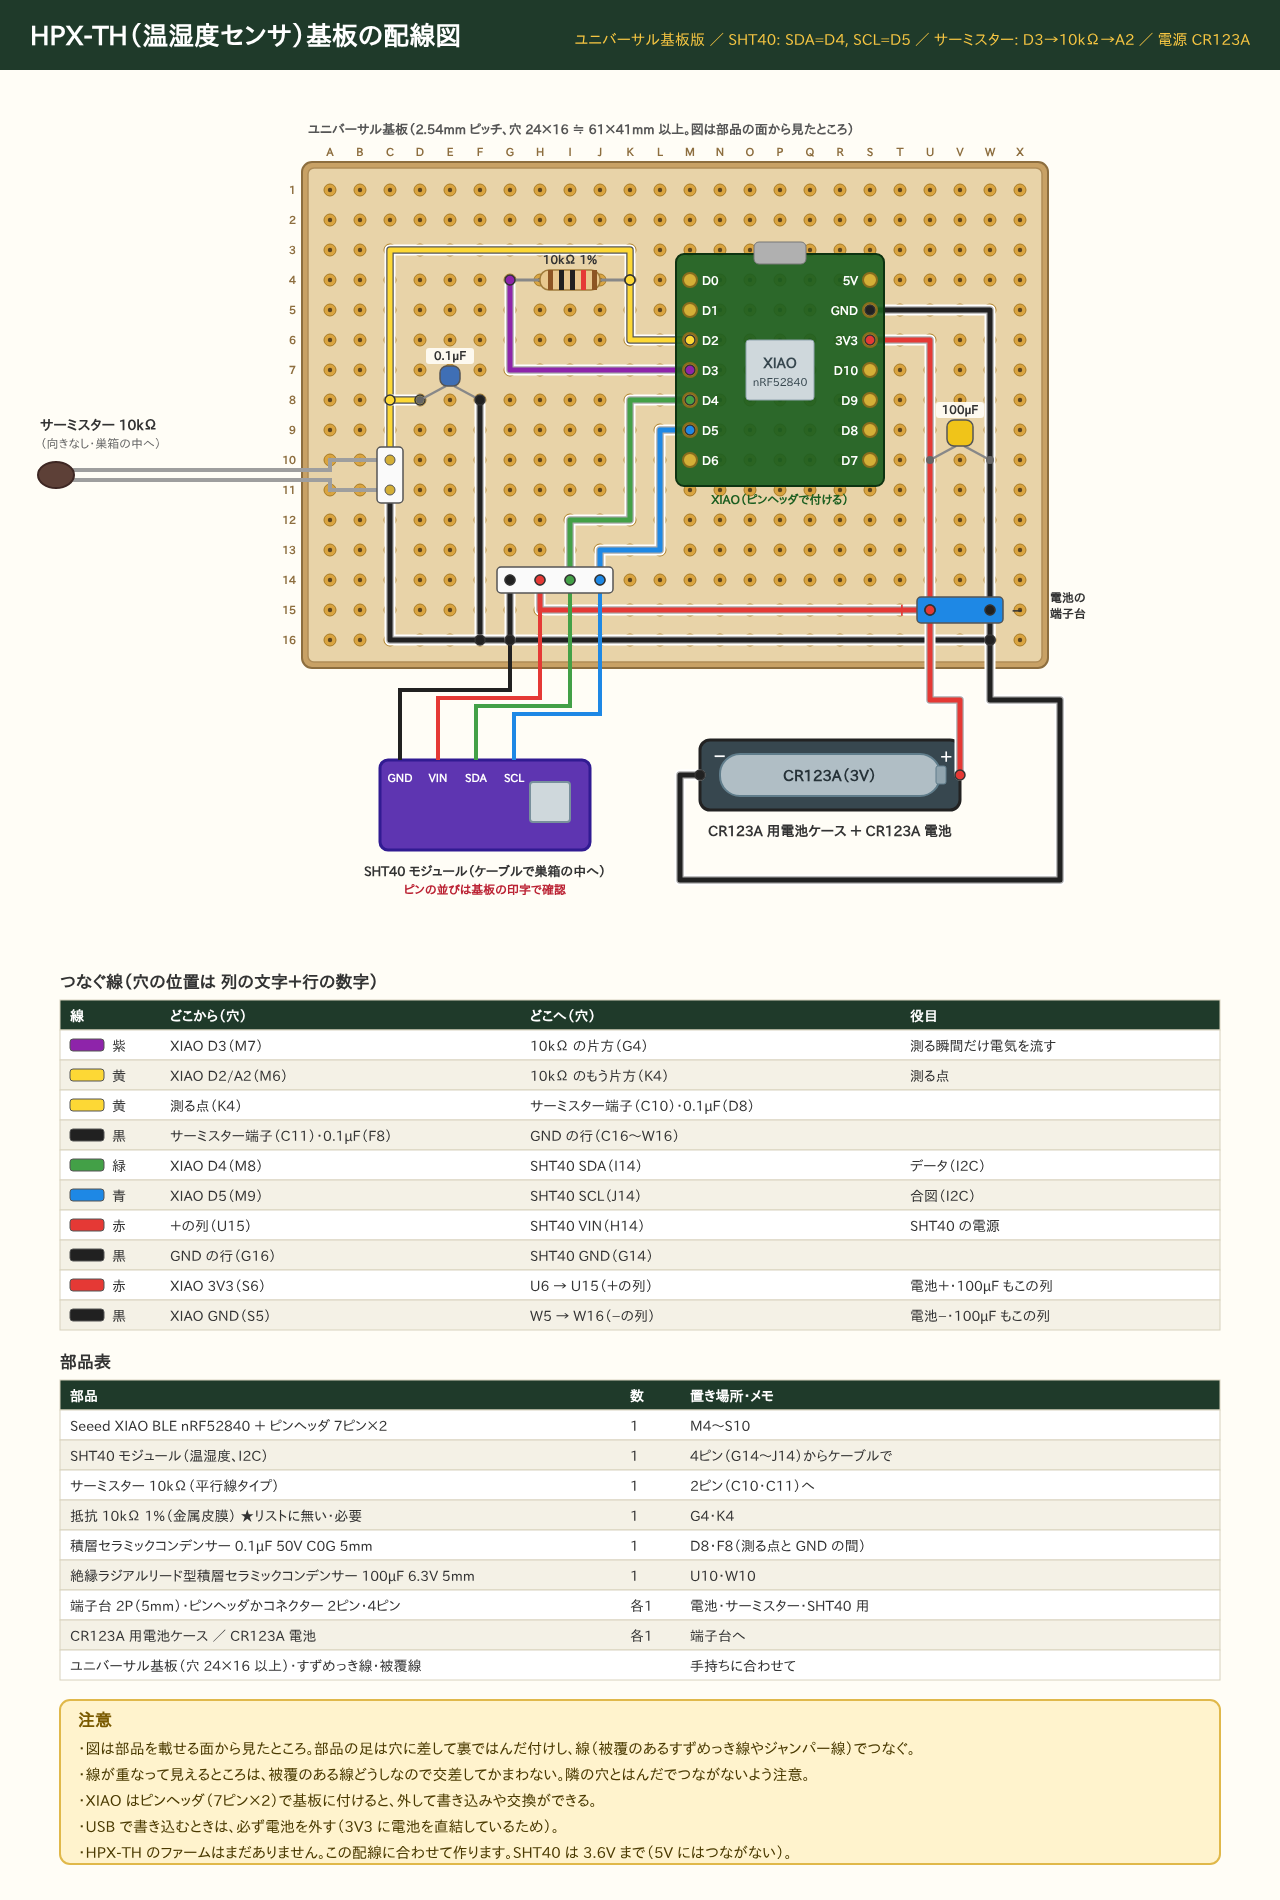
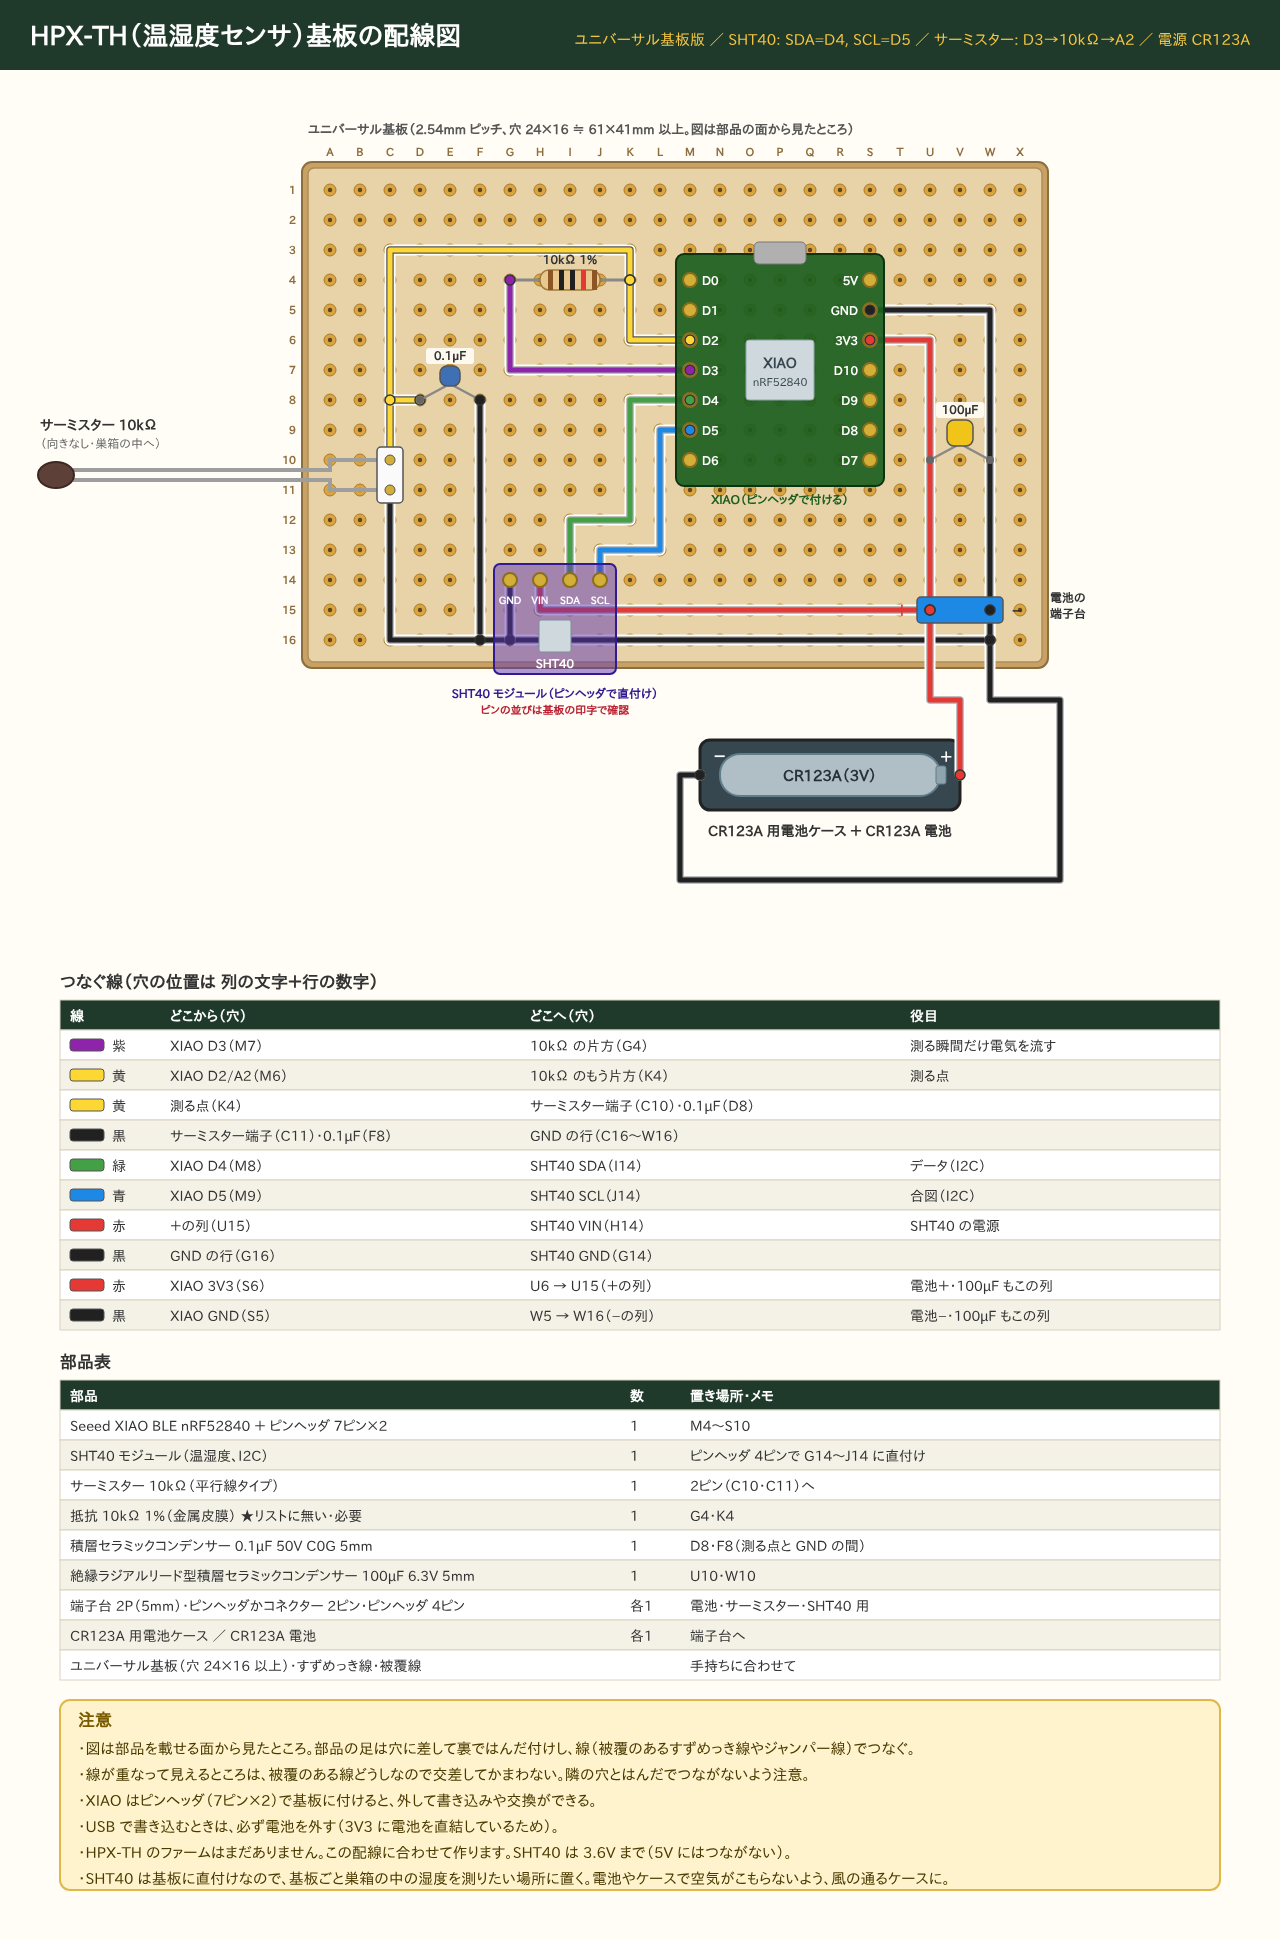
HPX-TH の SHT40 を基板に直付けする図に変更
Claude-Session: https://claude.ai/code/session_01LCC9B49tx6iTQWsNLLe4HY

diff --git a/hardware/wiring/gen_pcb.py b/hardware/wiring/gen_pcb.py
@@ -313,7 +313,7 @@ notes(s, 60, y + 20, COMMON_NOTES + [
 s.save("HPX-W_pcb.svg")
 
 # ================================================================== HPX-TH
-s = S(1280, 1900)
+s = S(1280, 1940)
 title(s, "HPX-TH（温湿度センサ）基板の配線図", "ユニバーサル基板版 ／ SHT40: SDA=D4, SCL=D5 ／ サーミスター: D3→10kΩ→A2 ／ 電源 CR123A")
 board(s)
 p = xiao_pcb(s, 12, 3)
@@ -334,22 +334,21 @@ s.add(f'<path d="M{tx},{ty+30} L{tx-60},{ty+30} L{tx-60},{ty+20} L70,{ty+20}" fi
 s.add(f'<ellipse cx="56" cy="{ty+15}" rx="18" ry="13" fill="#5d4037" stroke="#3e2723" stroke-width="2"/>')
 s.text(40, ty - 30, "サーミスター 10kΩ", 14, weight="bold")
 s.text(40, ty - 12, "（向きなし・巣箱の中へ）", 12, fill="#666")
-# SHT40 用の 4ピン (基板の外へケーブル)
-conn_pcb(s, [(6, 13), (7, 13), (8, 13), (9, 13)], ["", "", "", ""], "")
 wireh(s, [(6, 13), (6, 15)], "black")
 wireh(s, [(7, 13), (7, 14), (20, 14)], "red")
 wireh(s, [p["D4"], (10, 7), (10, 11), (8, 11), (8, 13)], "green")
 wireh(s, [p["D5"], (11, 8), (11, 12), (9, 12), (9, 13)], "blue")
-mx, my = 380, 760
-s.rect(mx, my, 210, 90, "#5e35b1", "#311b92", 8, 3)
-s.rect(mx + 150, my + 22, 40, 40, "#cfd8dc", "#78909c", 3)
-for i, (n, c) in enumerate([("GND", "black"), ("VIN", "red"), ("SDA", "green"), ("SCL", "blue")]):
-    px = mx + 20 + i * 38
-    hx_, hy_ = H(6 + i, 13)
-    s.add(f'<path d="M{hx_},{hy_} L{hx_},{690 + i*8} L{px},{690 + i*8} L{px},{my}" fill="none" stroke="{COL[c]}" stroke-width="4"/>')
-    s.text(px, my + 22, n, 11, "middle", "bold", "#fff")
-s.text(mx + 105, my + 116, "SHT40 モジュール（ケーブルで巣箱の中へ）", 13, "middle", "bold")
-s.text(mx + 105, my + 134, "ピンの並びは基板の印字で確認", 12, "middle", fill="#b23", weight="bold")
+# SHT40 モジュールをピンヘッダで基板に直付け (G14〜J14)。本体は下側に張り出す
+x1, y1 = H(6, 13); x2, _ = H(9, 13)
+s.top.append(f'<rect x="{x1-16}" y="{y1-16}" width="{x2-x1+32}" height="110" rx="6" fill="#5e35b1" fill-opacity="0.5" stroke="#311b92" stroke-width="2"/>')
+s.top.append(f'<rect x="{(x1+x2)/2-16}" y="{y1+40}" width="32" height="32" rx="2" fill="#cfd8dc" stroke="#78909c"/>')
+s.text((x1 + x2) / 2, y1 + 88, "SHT40", 12, "middle", "bold", "#fff", layer=s.top)
+for i, n in enumerate(["GND", "VIN", "SDA", "SCL"]):
+    x, y = H(6 + i, 13)
+    s.top.append(f'<circle cx="{x}" cy="{y}" r="7" fill="#d4af37" stroke="#8a6d1d" stroke-width="2"/>')
+    s.text(x, y + 24, n, 10, "middle", "bold", "#fff", layer=s.top)
+s.text((x1 + x2) / 2, y1 + 118, "SHT40 モジュール（ピンヘッダで直付け）", 12, "middle", "bold", "#311b92", layer=s.top)
+s.text((x1 + x2) / 2, y1 + 134, "ピンの並びは基板の印字で確認", 11, "middle", fill="#b23", weight="bold", layer=s.top)
 battery_off(s)
 y = table(s, 60, 1000, [
     ["線", "どこから（穴）", "どこへ（穴）", "役目"],
@@ -367,17 +366,18 @@ y = table(s, 60, 1000, [
 y = table(s, 60, y + 50, [
     ["部品", "数", "置き場所・メモ"],
     ["Seeed XIAO BLE nRF52840 ＋ ピンヘッダ 7ピン×2", "1", f"{hn(12,3)}〜{hn(18,9)}"],
-    ["SHT40 モジュール（温湿度、I2C）", "1", f"4ピン（{hn(6,13)}〜{hn(9,13)}）からケーブルで"],
+    ["SHT40 モジュール（温湿度、I2C）", "1", f"ピンヘッダ 4ピンで {hn(6,13)}〜{hn(9,13)} に直付け"],
     ["サーミスター 10kΩ（平行線タイプ）", "1", f"2ピン（{hn(2,9)}・{hn(2,10)}）へ"],
     ["抵抗 10kΩ 1%（金属皮膜） ★リストに無い・必要", "1", f"{hn(6,3)}・{hn(10,3)}"],
     ["積層セラミックコンデンサー 0.1µF 50V C0G 5mm", "1", f"{hn(3,7)}・{hn(5,7)}（測る点と GND の間）"],
     ["絶縁ラジアルリード型積層セラミックコンデンサー 100µF 6.3V 5mm", "1", f"{hn(20,9)}・{hn(22,9)}"],
-    ["端子台 2P（5mm）・ピンヘッダかコネクター 2ピン・4ピン", "各1", "電池・サーミスター・SHT40 用"],
+    ["端子台 2P（5mm）・ピンヘッダかコネクター 2ピン・ピンヘッダ 4ピン", "各1", "電池・サーミスター・SHT40 用"],
     ["CR123A 用電池ケース ／ CR123A 電池", "各1", "端子台へ"],
     ["ユニバーサル基板（穴 24×16 以上）・すずめっき線・被覆線", "", "手持ちに合わせて"],
 ], [560, 60, 540], "部品表")
 notes(s, 60, y + 20, COMMON_NOTES + [
     "・HPX-TH のファームはまだありません。この配線に合わせて作ります。SHT40 は 3.6V まで（5V にはつながない）。",
+    "・SHT40 は基板に直付けなので、基板ごと巣箱の中の湿度を測りたい場所に置く。電池やケースで空気がこもらないよう、風の通るケースに。",
 ])
 s.save("HPX-TH_pcb.svg")
 
